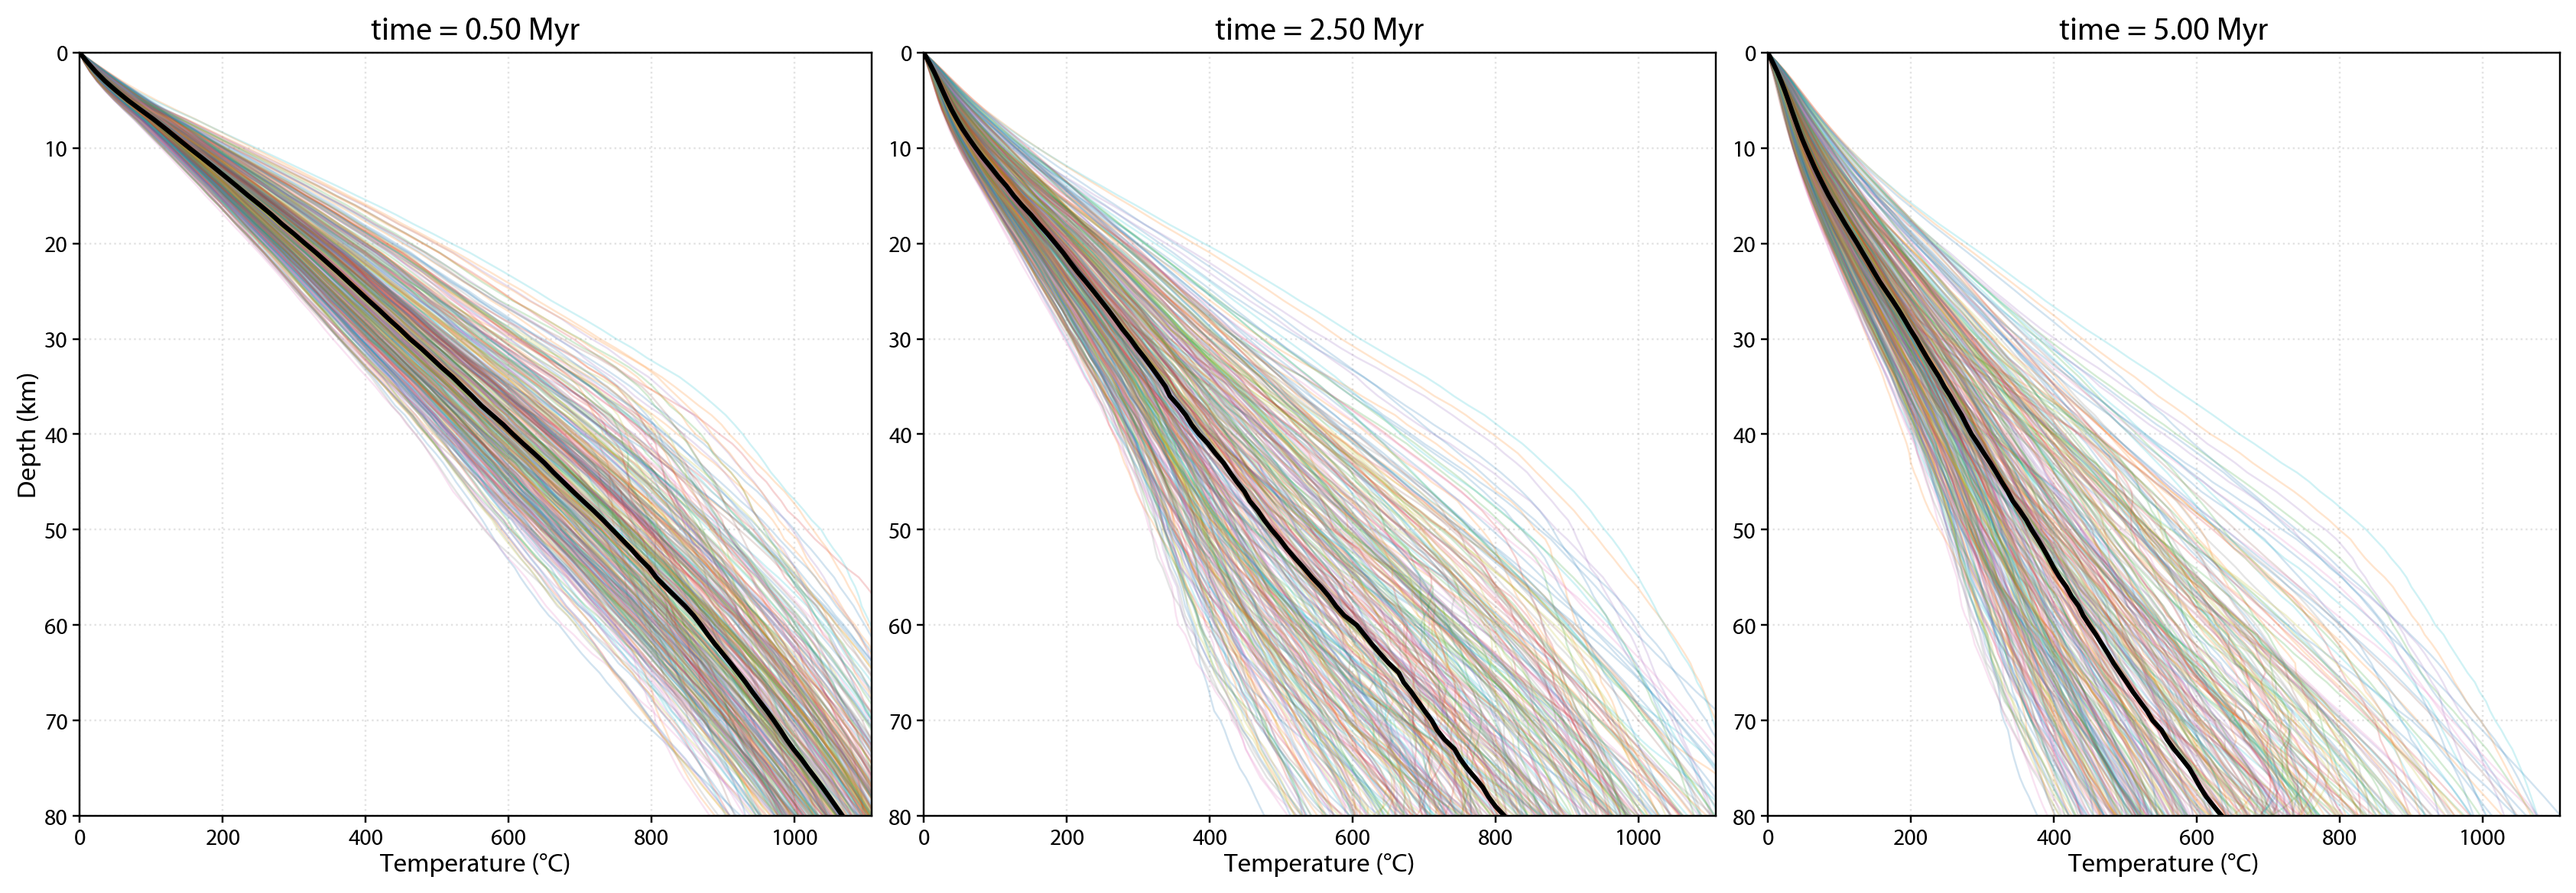
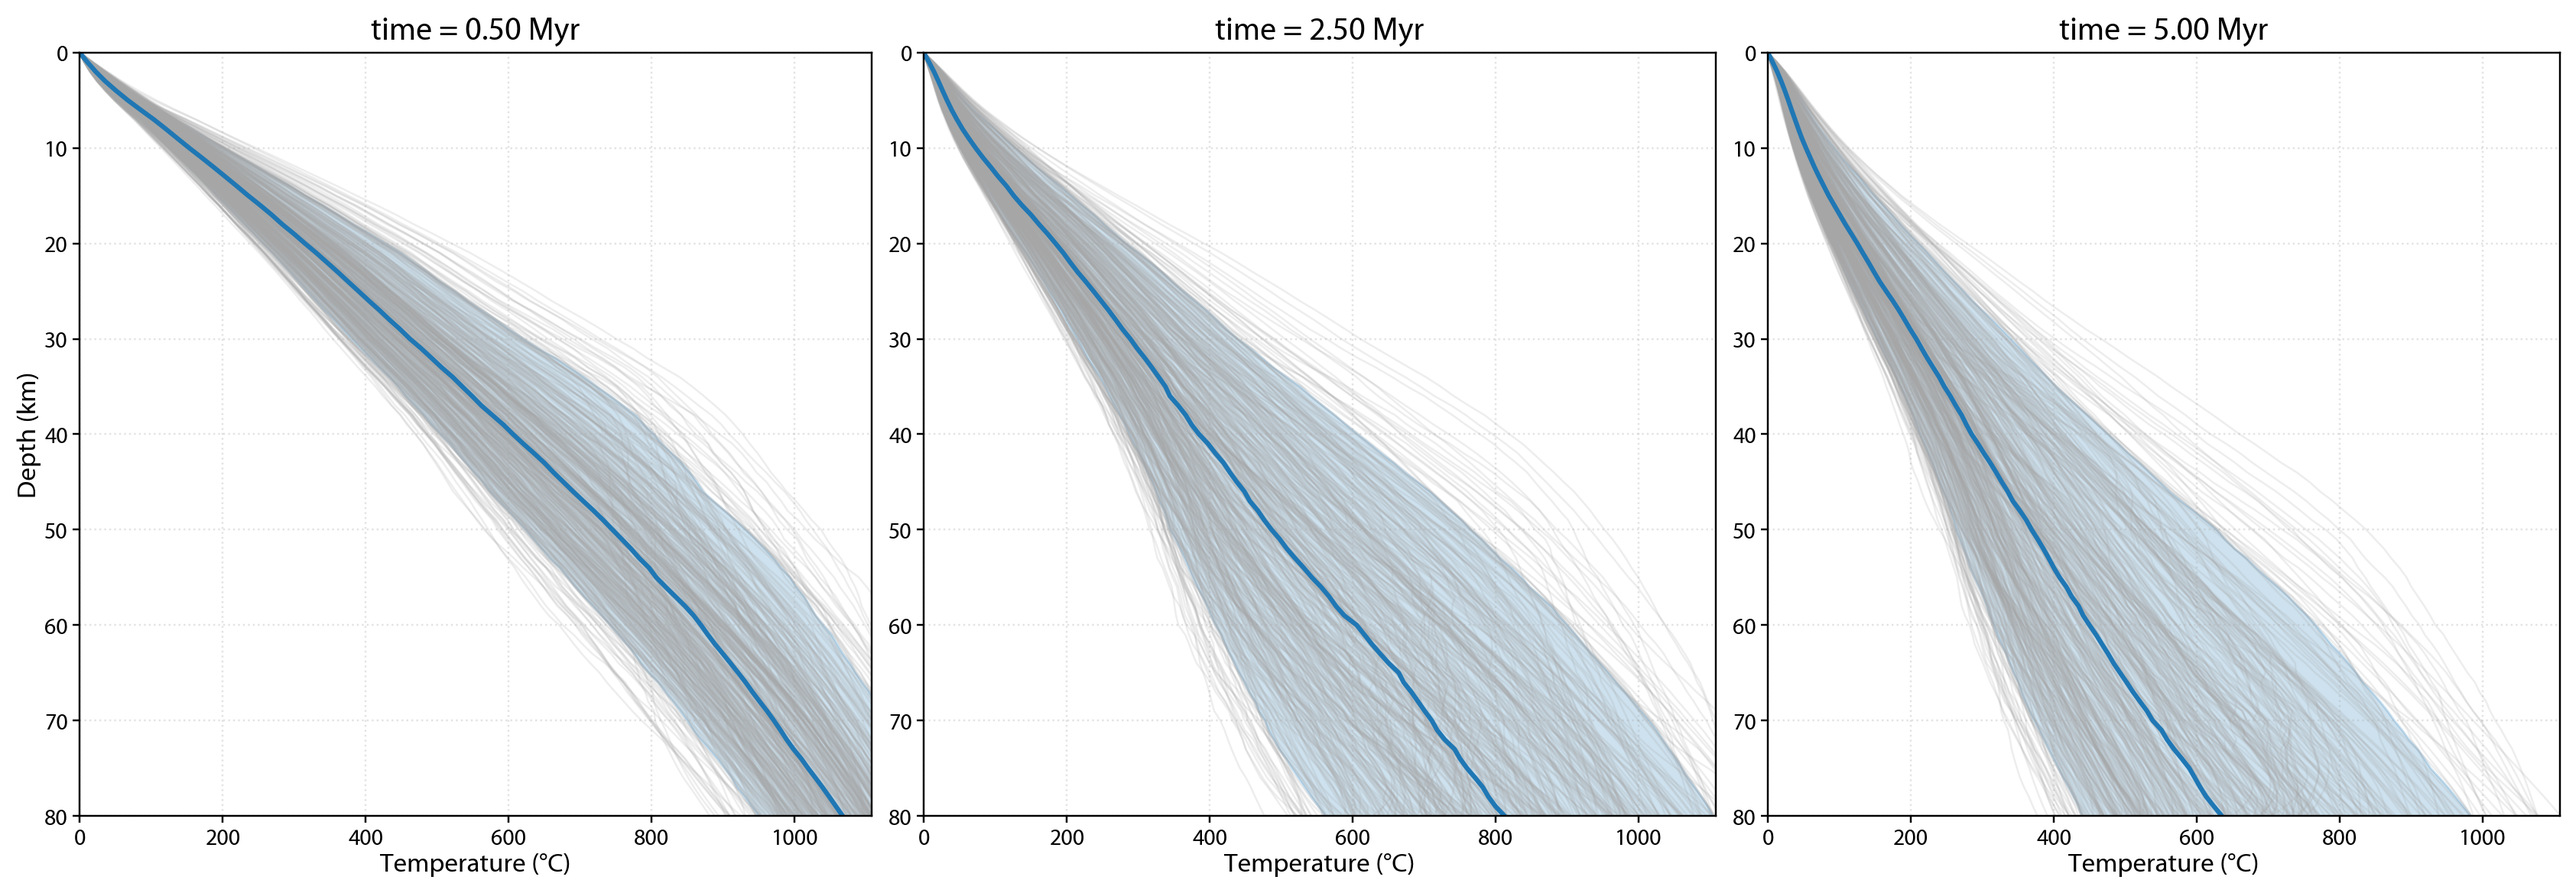
qc: merge ensemble styling into existing T profile plot

Changed region(s): [[0.3428, 0.0616, 0.6857, 0.9239], [0.6857, 0.0616, 0.9973, 0.9239], [0.0312, 0.0616, 0.3428, 0.9239]]

diff --git a/src/qc-numerical-mods/qc_T_profiles_allmodels_3times.py b/src/qc-numerical-mods/qc_T_profiles_allmodels_3times.py
@@ -114,12 +114,10 @@ def main():
     p.add_argument("--out", required=True)
     p.add_argument("--dpi", type=int, default=220)
 
-    p.add_argument("--max-lines", type=int, default=800,
-                   help="Cap number of individual profiles plotted per panel (default 800)")
+    p.add_argument("--max-lines", type=int, default=None,
+                   help="Optional cap on number of individual profiles per panel (default: plot all)")
     p.add_argument("--alpha", type=float, default=0.2,
                    help="Alpha for individual profiles (default 0.2)")
-    p.add_argument("--show-envelope", action="store_true",
-                   help="Show 16–84 percentile envelope.")
     p.add_argument("--Tlim", nargs=2, type=float, default=None,
                    help="Optional x-limits: Tmin Tmax (°C)")
     p.add_argument("--zlim", nargs=2, type=float, default=None,
@@ -204,7 +202,7 @@ def main():
             continue
 
         # Choose subset for plotting individual profiles (if huge)
-        if len(entries) > args.max_lines:
+        if args.max_lines is not None and args.max_lines > 0 and len(entries) > args.max_lines:
             idx = rng.choice(len(entries), size=args.max_lines, replace=False)
             plot_entries = [entries[i] for i in idx]
         else:
@@ -236,17 +234,16 @@ def main():
 
         # Plot individual profiles
         for _, z, T, tsel in plot_entries:
-            ax.plot(T, z, lw=0.8, alpha=args.alpha)
+            ax.plot(T, z, lw=0.8, alpha=args.alpha, color="0.65")
 
         # Stats overlays
         if M is not None and M.size > 0:
             med = np.nanmedian(M, axis=0)
-            ax.plot(med, zgrid, lw=2, alpha=1.0, color="black")
+            ax.plot(med, zgrid, lw=2, alpha=1.0, color="tab:blue")
 
-            if args.show_envelope:
-                p16 = np.nanpercentile(M, 16, axis=0)
-                p84 = np.nanpercentile(M, 84, axis=0)
-                ax.fill_betweenx(zgrid, p16, p84, alpha=0.18)
+            p05 = np.nanpercentile(M, 5, axis=0)
+            p95 = np.nanpercentile(M, 95, axis=0)
+            ax.fill_betweenx(zgrid, p05, p95, alpha=0.22, color="tab:blue")
 
         # Title with actual selected time (median of selected times)
         t_selecteds = [tsel for *_rest, tsel in entries]
